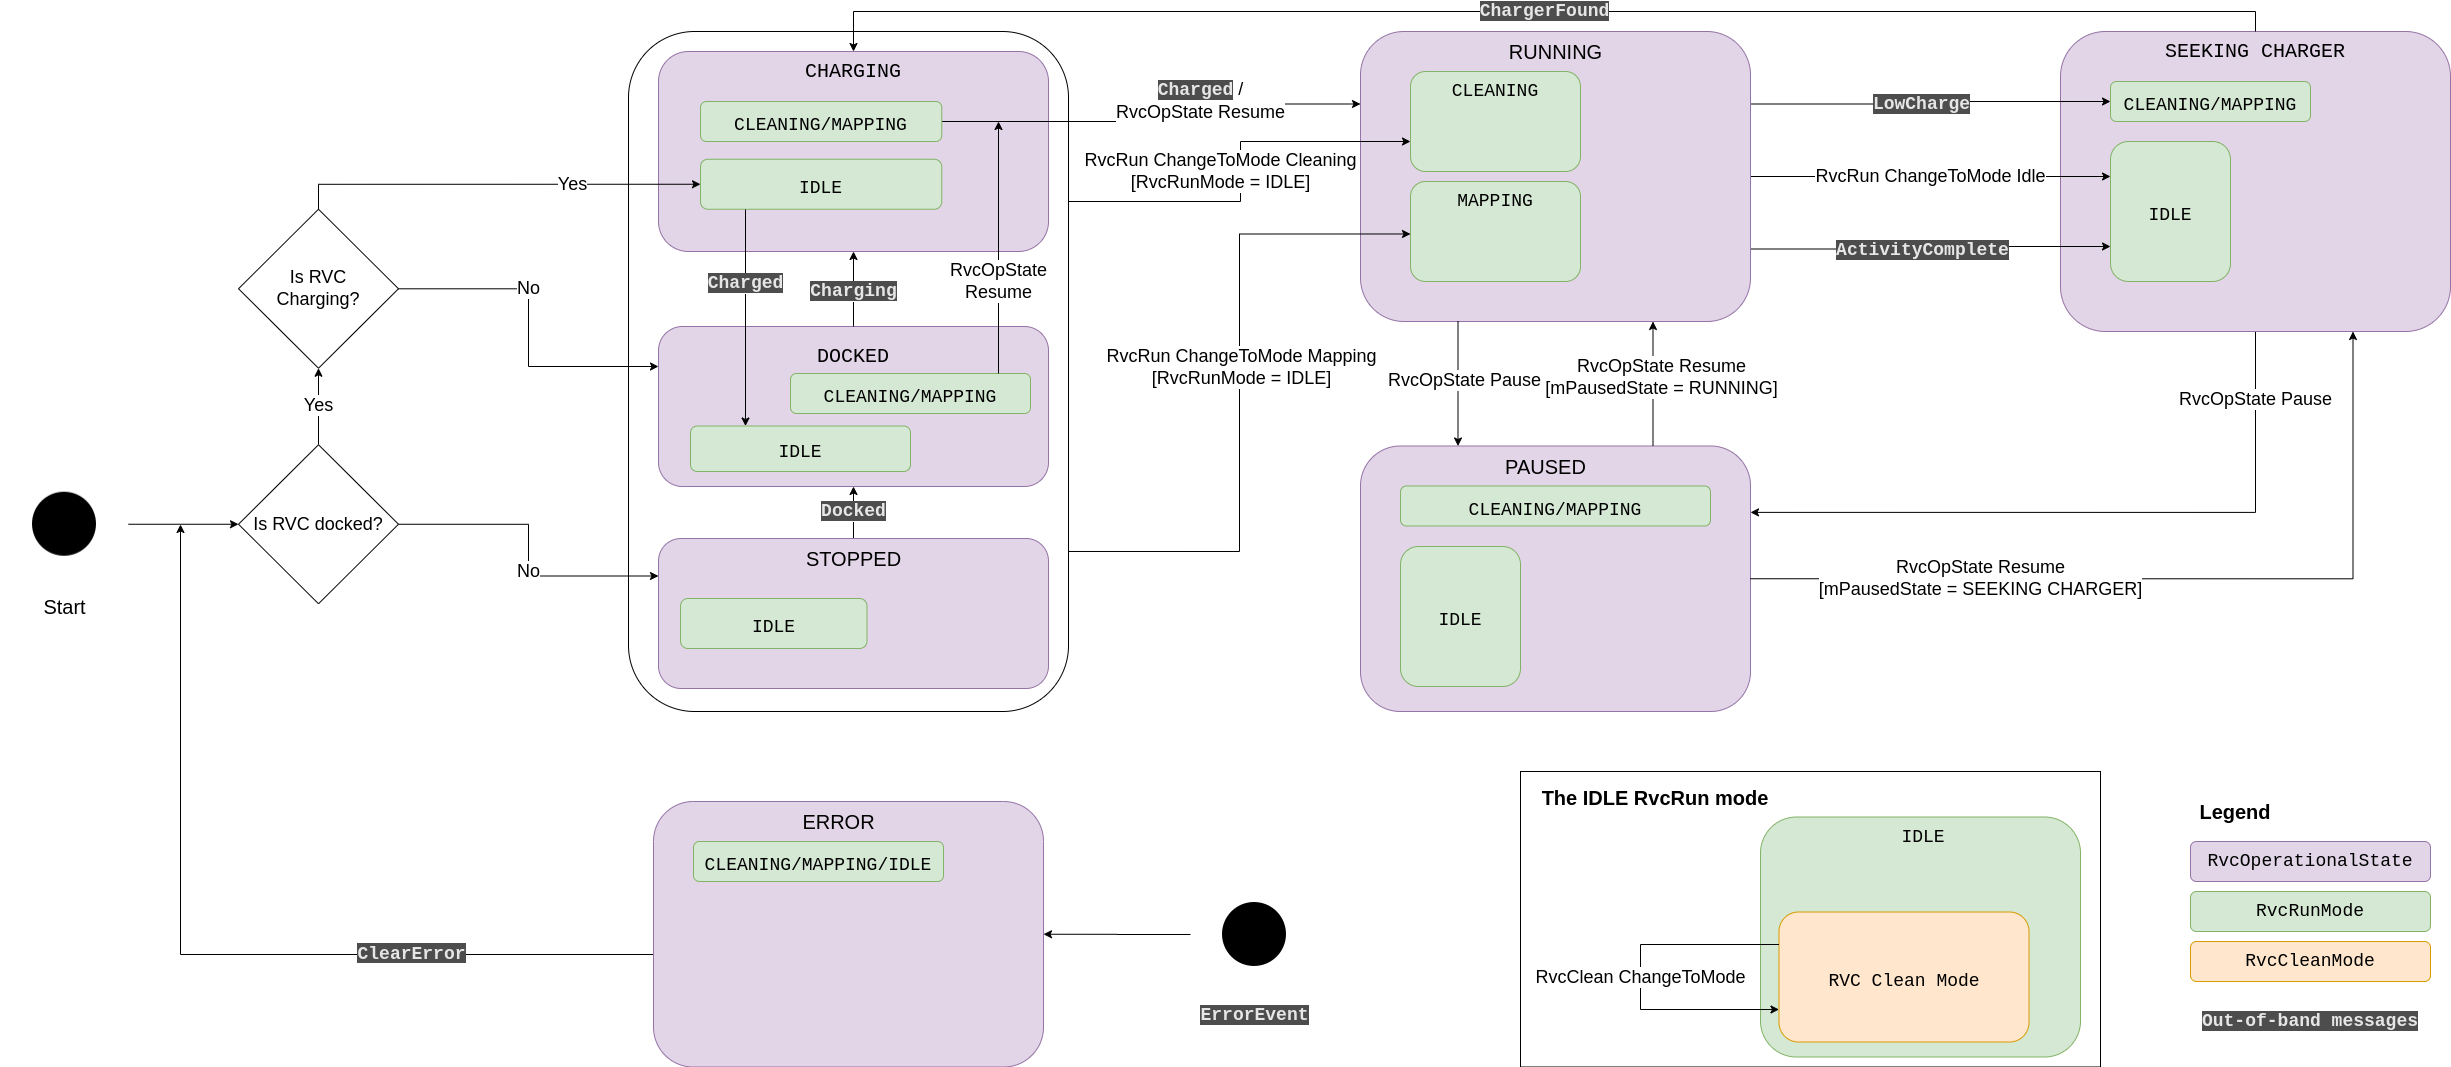
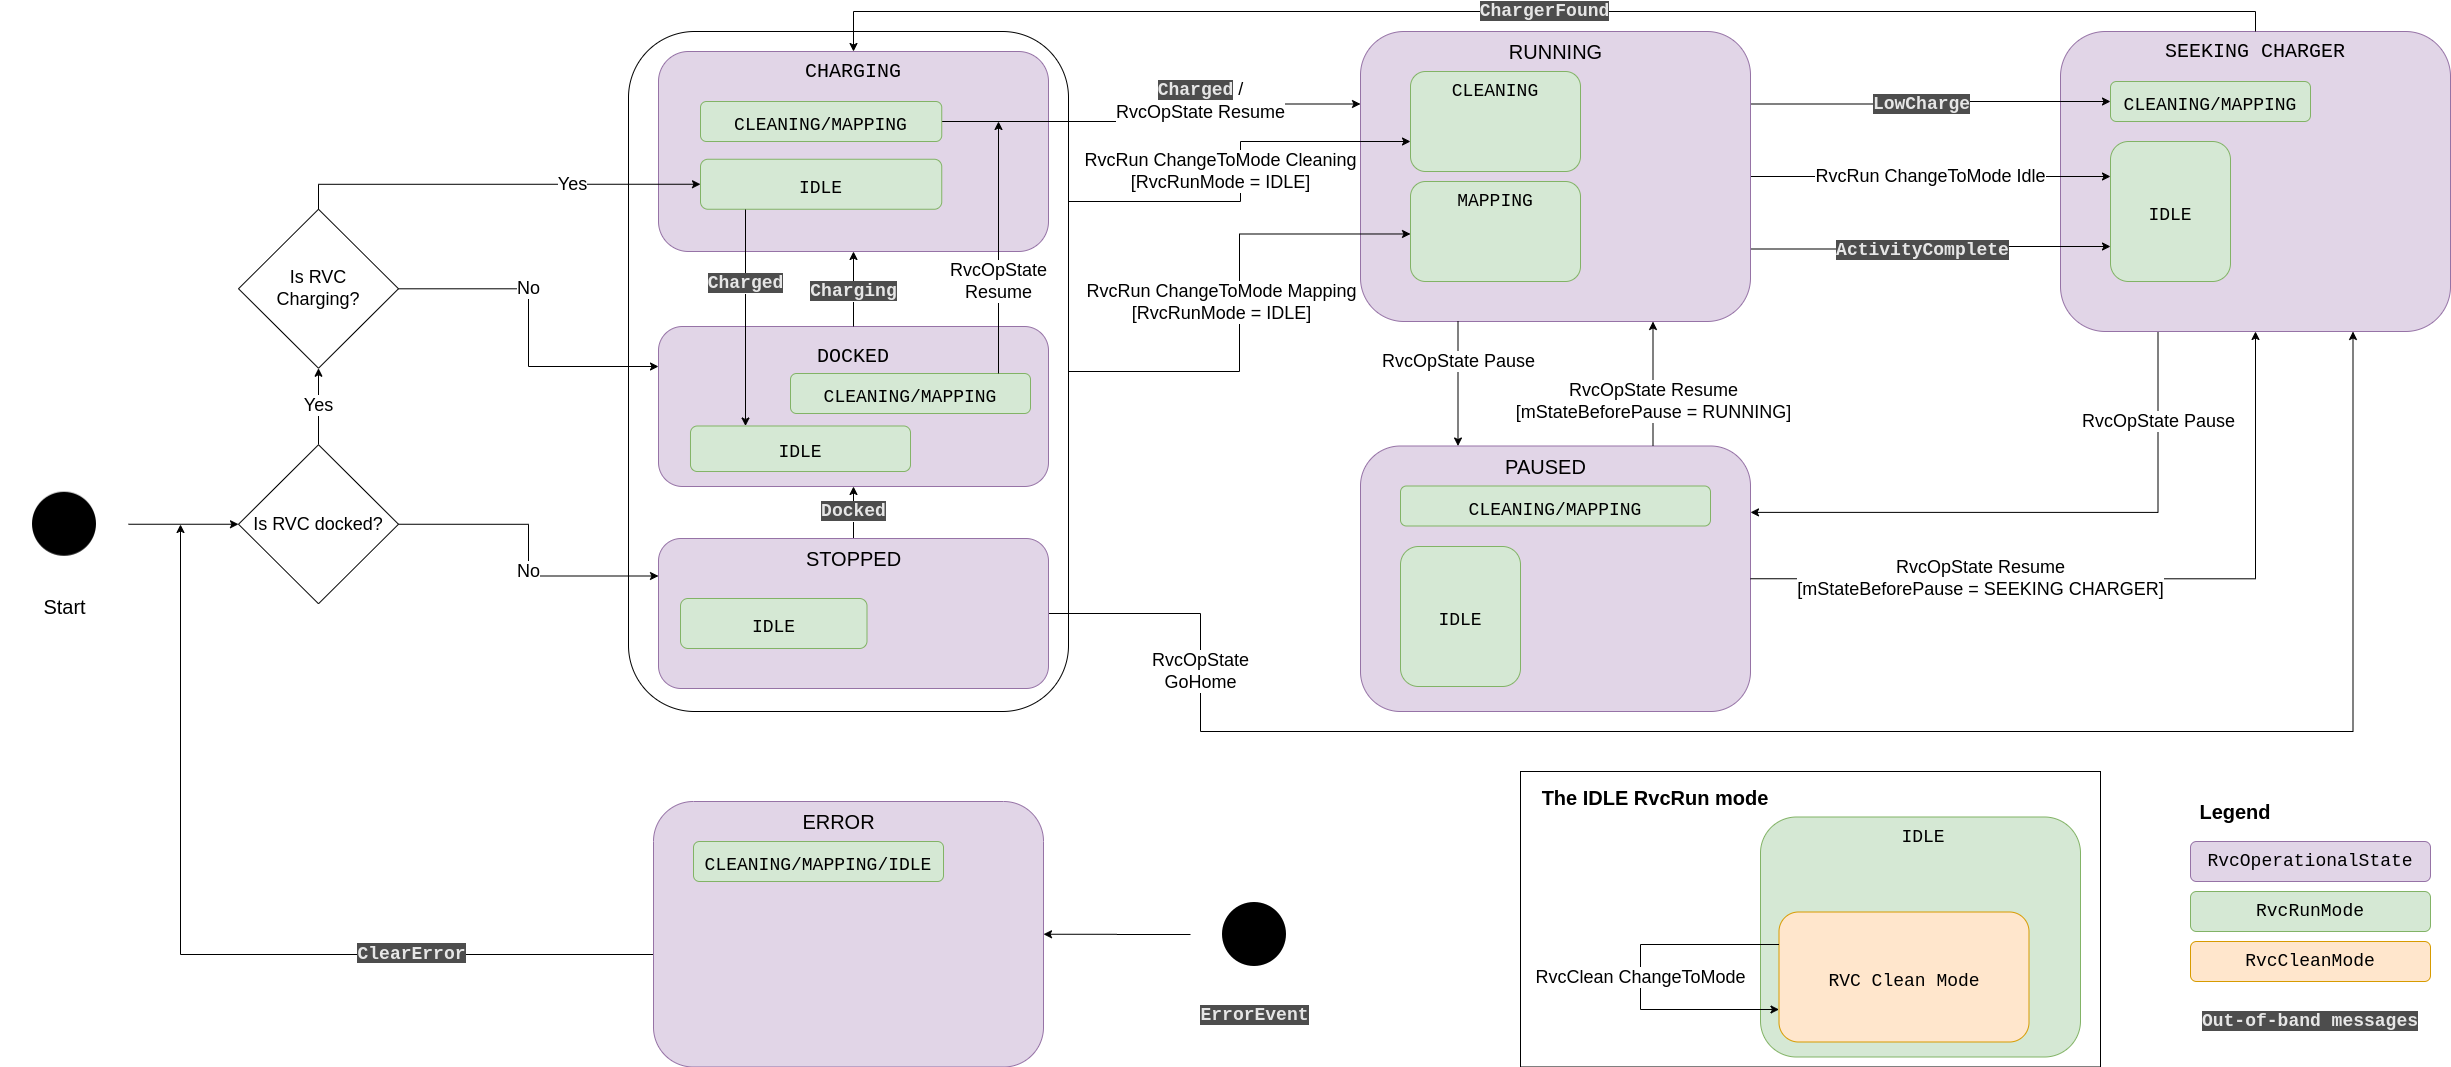
Update rvc app (#31827)
* Replaced the vendor specific mode tag for the mapping mode with the mapping mode tag.

* Updated the rvc-app's RvcOperationalStateDelegate to allow setting of a callback furtion for when the GoHome commond in received.

* Implemented the GoHome handler for rvc-app.

* Updated the PICS file for the rvc-app.

* Fixed the Admin commissioning cluter's zap config for the rvc-app

* Renamed the PICS values file to be similar to the ci file. Updated the script that runs all the RVC yaml tests.

* Updated the rvc-app state machine diagram.

* Updated theh rvc-app README.

* Restyled by clang-format

* Restyled by prettier-markdown

* Restyled by shfmt

* Updated the rvc-app .matter file.

* Reduced the text of some errors as it was longer that allowed.

* Added an out-of-band message to reset the rvc-app to its start-up state.

* Updated a returend error following the spec change.

* Excluded the RVC state diagram png from the lint check for %zu.

* Updated the rvc-app readme.

* Removed PIXIT settings from the rvc-app-pics values.

* Excluded all binary files from the lint check for %zu.

* Re-removed the OpenBasicCommissioningWindow command of the Administrator Commissioning cluster in the rvc-app due to security concerns.

* Updated the rvc-app .matter file.

---------

diff --git a/examples/rvc-app/rvc-common/src/rvc-device.cpp b/examples/rvc-app/rvc-common/src/rvc-device.cpp
@@ -41,7 +41,7 @@ void RvcDevice::HandleRvcRunChangeToMode(uint8_t newMode, ModeBase::Commands::Ch
         {
             response.status = to_underlying(ModeBase::StatusCode::kInvalidInMode);
             response.statusText.SetValue(
-                chip::CharSpan::fromCharString("Change to the mapping or cleaning mode is only allowed from idle."));
+                chip::CharSpan::fromCharString("Change to the mapping or cleaning mode is only allowed from idle"));
             return;
         }
 
@@ -58,7 +58,7 @@ void RvcDevice::HandleRvcRunChangeToMode(uint8_t newMode, ModeBase::Commands::Ch
         {
             response.status = to_underlying(ModeBase::StatusCode::kInvalidInMode);
             response.statusText.SetValue(
-                chip::CharSpan::fromCharString("Change to the mapping or cleaning mode is only allowed from idle."));
+                chip::CharSpan::fromCharString("Change to the mapping or cleaning mode is only allowed from idle"));
             return;
         }
 
@@ -72,7 +72,7 @@ void RvcDevice::HandleRvcRunChangeToMode(uint8_t newMode, ModeBase::Commands::Ch
 
     // If we fall through at any point, it's because the change is not supported in the current state.
     response.status = to_underlying(ModeBase::StatusCode::kInvalidInMode);
-    response.statusText.SetValue(chip::CharSpan::fromCharString("This change is not allowed at this time."));
+    response.statusText.SetValue(chip::CharSpan::fromCharString("This change is not allowed at this time"));
 }
 
 void RvcDevice::HandleRvcCleanChangeToMode(uint8_t newMode, ModeBase::Commands::ChangeToModeResponse::Type & response)
@@ -81,7 +81,7 @@ void RvcDevice::HandleRvcCleanChangeToMode(uint8_t newMode, ModeBase::Commands::
 
     if (rvcRunCurrentMode != RvcRunMode::ModeIdle)
     {
-        response.status = to_underlying(RvcCleanMode::StatusCode::kCleaningInProgress);
+        response.status = to_underlying(ModeBase::StatusCode::kInvalidInMode);
         response.statusText.SetValue(chip::CharSpan::fromCharString("Change of the cleaning mode is only allowed in Idle."));
         return;
     }
@@ -123,7 +123,7 @@ void RvcDevice::HandleOpStateResumeCallback(Clusters::OperationalState::GenericO
     break;
     default:
         // This method is only called if the device is in a resume-compatible state, i.e. `Charging`, `Docked` or
-        // `Paused`. Therefor, we do not expect to ever enter this branch.
+        // `Paused`. Therefore, we do not expect to ever enter this branch.
         err.Set(to_underlying(OperationalState::ErrorStateEnum::kCommandInvalidInState));
         return;
     }
@@ -132,6 +132,30 @@ void RvcDevice::HandleOpStateResumeCallback(Clusters::OperationalState::GenericO
 
     err.Set((error == CHIP_NO_ERROR) ? to_underlying(OperationalState::ErrorStateEnum::kNoError)
                                      : to_underlying(OperationalState::ErrorStateEnum::kUnableToCompleteOperation));
+}
+
+void RvcDevice::HandleOpStateGoHomeCallback(Clusters::OperationalState::GenericOperationalError & err)
+{
+    switch (mOperationalStateInstance.GetCurrentOperationalState())
+    {
+    case to_underlying(OperationalState::OperationalStateEnum::kStopped): {
+        if (mRunModeInstance.GetCurrentMode() != RvcRunMode::ModeIdle)
+        {
+            err.Set(to_underlying(OperationalState::ErrorStateEnum::kCommandInvalidInState));
+            return;
+        }
+
+        auto error = mOperationalStateInstance.SetOperationalState(
+            to_underlying(RvcOperationalState::OperationalStateEnum::kSeekingCharger));
+
+        err.Set((error == CHIP_NO_ERROR) ? to_underlying(OperationalState::ErrorStateEnum::kNoError)
+                                         : to_underlying(OperationalState::ErrorStateEnum::kUnableToCompleteOperation));
+    }
+    break;
+    default:
+        err.Set(to_underlying(OperationalState::ErrorStateEnum::kCommandInvalidInState));
+        return;
+    }
 }
 
 void RvcDevice::HandleChargedMessage()
@@ -300,4 +324,11 @@ void RvcDevice::HandleClearErrorMessage()
 
     mRunModeInstance.UpdateCurrentMode(RvcRunMode::ModeIdle);
     SetDeviceToIdleState();
+}
+
+void RvcDevice::HandleResetMessage()
+{
+    mRunModeInstance.UpdateCurrentMode(RvcRunMode::ModeIdle);
+    mOperationalStateInstance.SetOperationalState(to_underlying(OperationalState::OperationalStateEnum::kStopped));
+    mCleanModeInstance.UpdateCurrentMode(RvcCleanMode::ModeQuick);
 }

diff --git a/examples/rvc-app/rvc-common/include/rvc-operational-state-delegate.h b/examples/rvc-app/rvc-common/include/rvc-operational-state-delegate.h
@@ -53,6 +53,8 @@ private:
     HandleOpStateCommand mPauseCallback;
     RvcDevice * mResumeRvcDeviceInstance;
     HandleOpStateCommand mResumeCallback;
+    RvcDevice * mGoHomeRvcDeviceInstance;
+    HandleOpStateCommand mGoHomeCallback;
 
 public:
     /**
@@ -99,6 +101,12 @@ public:
      */
     void HandleResumeStateCallback(Clusters::OperationalState::GenericOperationalError & err) override;
 
+    /**
+     * Handle Command Callback in application: GoHome
+     * @param[out] get operational error after callback.
+     */
+    void HandleGoHomeCommandCallback(Clusters::OperationalState::GenericOperationalError & err) override;
+
     void SetPauseCallback(HandleOpStateCommand aCallback, RvcDevice * aInstance)
     {
         mPauseCallback          = aCallback;
@@ -109,6 +117,12 @@ public:
     {
         mResumeCallback          = aCallback;
         mResumeRvcDeviceInstance = aInstance;
+    };
+
+    void SetGoHomeCallback(HandleOpStateCommand aCallback, RvcDevice * aInstance)
+    {
+        mGoHomeCallback          = aCallback;
+        mGoHomeRvcDeviceInstance = aInstance;
     };
 };
 

diff --git a/examples/rvc-app/rvc-common/include/rvc-device.h b/examples/rvc-app/rvc-common/include/rvc-device.h
@@ -48,6 +48,7 @@ public:
         mCleanModeDelegate.SetHandleChangeToMode(&RvcDevice::HandleRvcCleanChangeToMode, this);
         mOperationalStateDelegate.SetPauseCallback(&RvcDevice::HandleOpStatePauseCallback, this);
         mOperationalStateDelegate.SetResumeCallback(&RvcDevice::HandleOpStateResumeCallback, this);
+        mOperationalStateDelegate.SetGoHomeCallback(&RvcDevice::HandleOpStateGoHomeCallback, this);
     }
 
     /**
@@ -82,6 +83,11 @@ public:
     void HandleOpStateResumeCallback(Clusters::OperationalState::GenericOperationalError & err);
 
     /**
+     * Handles the RvcOperationalState GoHome command.
+     */
+    void HandleOpStateGoHomeCallback(Clusters::OperationalState::GenericOperationalError & err);
+
+    /**
      * Updates the state machine when the device becomes fully-charged.
      */
     void HandleChargedMessage();
@@ -105,6 +111,8 @@ public:
     void HandleErrorEvent(const std::string & error);
 
     void HandleClearErrorMessage();
+
+    void HandleResetMessage();
 };
 
 } // namespace Clusters

diff --git a/examples/rvc-app/linux/RvcAppCommandDelegate.cpp b/examples/rvc-app/linux/RvcAppCommandDelegate.cpp
@@ -91,6 +91,10 @@ void RvcAppCommandHandler::HandleCommand(intptr_t context)
     {
         self->OnClearErrorHandler();
     }
+    else if (name == "Reset")
+    {
+        self->OnResetHandler();
+    }
     else
     {
         ChipLogError(NotSpecified, "Unhandled command: Should never happens");
@@ -143,6 +147,11 @@ void RvcAppCommandHandler::OnErrorEventHandler(const std::string & error)
 void RvcAppCommandHandler::OnClearErrorHandler()
 {
     mRvcDevice->HandleClearErrorMessage();
+}
+
+void RvcAppCommandHandler::OnResetHandler()
+{
+    mRvcDevice->HandleResetMessage();
 }
 
 void RvcAppCommandDelegate::SetRvcDevice(chip::app::Clusters::RvcDevice * aRvcDevice)

diff --git a/examples/rvc-app/rvc-common/include/rvc-mode-delegates.h b/examples/rvc-app/rvc-common/include/rvc-mode-delegates.h
@@ -45,7 +45,7 @@ private:
     using ModeTagStructType               = detail::Structs::ModeTagStruct::Type;
     ModeTagStructType ModeTagsIdle[1]     = { { .value = to_underlying(ModeTag::kIdle) } };
     ModeTagStructType ModeTagsCleaning[1] = { { .value = to_underlying(ModeTag::kCleaning) } };
-    ModeTagStructType ModeTagsMapping[1]  = { { .mfgCode = MakeOptional(TestVendor1), .value = 0x8001 } };
+    ModeTagStructType ModeTagsMapping[1]  = { { .value = to_underlying(ModeTag::kMapping) } };
 
     const detail::Structs::ModeOptionStruct::Type kModeOptions[3] = {
         detail::Structs::ModeOptionStruct::Type{ .label    = CharSpan::fromCharString("Idle"),

diff --git a/examples/rvc-app/rvc-common/src/rvc-operational-state-delegate.cpp b/examples/rvc-app/rvc-common/src/rvc-operational-state-delegate.cpp
@@ -51,3 +51,8 @@ void RvcOperationalStateDelegate::HandleResumeStateCallback(OperationalState::Ge
 {
     (mResumeRvcDeviceInstance->*mResumeCallback)(err);
 }
+
+void RvcOperationalStateDelegate::HandleGoHomeCommandCallback(OperationalState::GenericOperationalError & err)
+{
+    (mGoHomeRvcDeviceInstance->*mGoHomeCallback)(err);
+}

diff --git a/examples/rvc-app/linux/RvcAppCommandDelegate.h b/examples/rvc-app/linux/RvcAppCommandDelegate.h
@@ -56,6 +56,8 @@ private:
     void OnErrorEventHandler(const std::string & error);
 
     void OnClearErrorHandler();
+
+    void OnResetHandler();
 };
 
 class RvcAppCommandDelegate : public NamedPipeCommandDelegate

diff --git a/examples/rvc-app/README.md b/examples/rvc-app/README.md
@@ -48,16 +48,14 @@ Below are the PIXIT definitions required for the different python tests.
 
 #### TC 1.2
 
-PIXIT: `PIXIT_ENDPOINT:1`  
 Example command:
-`./scripts/tests/run_python_test.py --script src/python_testing/TC_RVCCLEANM_1_2.py --script-args "--storage-path admin_storage.json --PICS examples/rvc-app/rvc-common/pics/RVC_App_Test_Plan.txt --int-arg PIXIT_ENDPOINT:1"`
+`./scripts/tests/run_python_test.py --script src/python_testing/TC_RVCCLEANM_1_2.py --script-args "--storage-path admin_storage.json --PICS examples/rvc-app/rvc-common/pics/rvc-app-pics-values --endpoint=1"`
 
 #### TC 2.1
 
-PIXIT:
-`PIXIT_ENDPOINT:1 PIXIT.RVCCLEANM.MODE_CHANGE_FAIL:1 PIXIT.RVCCLEANM.MODE_CHANGE_OK:2`  
+PIXIT: `PIXIT.RVCCLEANM.MODE_CHANGE_FAIL:1 PIXIT.RVCCLEANM.MODE_CHANGE_OK:2`  
 Example command:
-`./scripts/tests/run_python_test.py --script src/python_testing/TC_RVCCLEANM_2_1.py --script-args "--storage-path admin_storage.json --PICS examples/rvc-app/rvc-common/pics/RVC_App_Test_Plan.txt --int-arg PIXIT_ENDPOINT:1 PIXIT.RVCCLEANM.MODE_CHANGE_FAIL:1 PIXIT.RVCCLEANM.MODE_CHANGE_OK:2"`
+`./scripts/tests/run_python_test.py --script src/python_testing/TC_RVCCLEANM_2_1.py --script-args "--storage-path admin_storage.json --PICS examples/rvc-app/rvc-common/pics/rvc-app-pics-values --endpoint 1 --int-arg PIXIT.RVCCLEANM.MODE_CHANGE_FAIL:1 PIXIT.RVCCLEANM.MODE_CHANGE_OK:2"`
 
 When asked "Manually put the device in a state from which it will FAIL to
 transition to mode 1", set the `RvcRunMode` to 1.
@@ -67,24 +65,23 @@ When asked "Manually put the device in a state from which it will SUCCESSFULLY
 transition to mode 2", set the `RvcRunMode` to 0.
 `chip-tool rvcrunmode change-to-mode 0`
 
-#### TC 3.2
+#### TC 2.2
 
-This is not applicable because this RVC device does not support the
-`StartUpMode` attribute.
+Example command:
+`./scripts/tests/run_python_test.py --script src/python_testing/TC_RVCCLEANM_2_2.py --script-args "--storage-path admin_storage.json --PICS examples/rvc-app/rvc-common/pics/rvc-app-pics-values --endpoint=1"`
 
 ### RVC Run Mode cluster
 
 #### TC 1.2
 
-PIXIT: `PIXIT_ENDPOINT:1` Example command:
-`./scripts/tests/run_python_test.py --script src/python_testing/TC_RVCRUNM_1_2.py --script-args "--storage-path admin_storage.json --PICS examples/rvc-app/rvc-common/pics/RVC_App_Test_Plan.txt --int-arg PIXIT_ENDPOINT:1"`
+Example command:
+`./scripts/tests/run_python_test.py --script src/python_testing/TC_RVCRUNM_1_2.py --script-args "--storage-path admin_storage.json --PICS examples/rvc-app/rvc-common/pics/rvc-app-pics-values --endpoint=1"`
 
 #### TC 2.1
 
-PIXIT:
-`PIXIT_ENDPOINT:1 PIXIT.RVCRUNM.MODE_CHANGE_FAIL:2 PIXIT.RVCRUNM.MODE_CHANGE_OK:0`  
+PIXIT: `PIXIT.RVCRUNM.MODE_CHANGE_FAIL:2 PIXIT.RVCRUNM.MODE_CHANGE_OK:0`  
 Example command:
-`./scripts/tests/run_python_test.py --script src/python_testing/TC_RVCRUNM_2_1.py --script-args "--storage-path admin_storage.json --PICS examples/rvc-app/rvc-common/pics/RVC_App_Test_Plan.txt --int-arg PIXIT_ENDPOINT:1 PIXIT.RVCRUNM.MODE_CHANGE_FAIL:2 PIXIT.RVCRUNM.MODE_CHANGE_OK:0"`
+`./scripts/tests/run_python_test.py --script src/python_testing/TC_RVCRUNM_2_1.py --script-args "--storage-path admin_storage.json --PICS examples/rvc-app/rvc-common/pics/rvc-app-pics-values --endpoint 1 --int-arg PIXIT.RVCRUNM.MODE_CHANGE_OK:0 PIXIT.RVCRUNM.MODE_CHANGE_FAIL:2"`
 
 When asked "Manually put the device in a state from which it will FAIL to
 transition to mode 2", set the `RvcRunMode` to 1.
@@ -93,27 +90,34 @@ transition to mode 2", set the `RvcRunMode` to 1.
 When asked "Manually put the device in a state from which it will SUCCESSFULLY
 transition to mode 0", do nothing.
 
-#### TC 3.2
+#### TC 2.2
 
-This is not applicable because this RVC device does not support the
-`StartUpMode` attribute.
+PIXIT: `PIXIT.RVCRUNM.MODE_A:1 PIXIT.RVCRUNM.MODE_B:2`  
+Example command:
+`./scripts/tests/run_python_test.py --script src/python_testing/TC_RVCRUNM_2_2.py --script-args "--storage-path admin_storage.json --PICS examples/rvc-app/rvc-common/pics/rvc-app-pics-values --endpoint 1 --int-arg PIXIT.RVCRUNM.MODE_A:1 PIXIT.RVCRUNM.MODE_B:2"`
 
 ### RVC Operational State cluster
 
 #### TC 2.1
 
-PIXIT: `PIXIT_ENDPOINT:1`  
 Example command:
-`./scripts/tests/run_python_test.py --script src/python_testing/TC_RVCOPSTATE_2_1.py --script-args "--storage-path admin_storage.json --PICS examples/rvc-app/rvc-common/pics/RVC_App_Test_Plan.txt --int-arg PIXIT_ENDPOINT:1"`
+`./scripts/tests/run_python_test.py --script src/python_testing/TC_RVCOPSTATE_2_1.py --script-args "--storage-path admin_storage.json --PICS examples/rvc-app/rvc-common/pics/rvc-app-pics-values --endpoint 1"`
 
 Use the out-of-band messages, chip-tool messages and the state machine diagram
 to navigate to the required states.
 
 #### TC 2.3
 
-PIXIT: `PIXIT_ENDPOINT:1`  
 Example command:
-`./scripts/tests/run_python_test.py --script src/python_testing/TC_RVCOPSTATE_2_3.py --script-args "--storage-path admin_storage.json --PICS examples/rvc-app/rvc-common/pics/RVC_App_Test_Plan.txt --int-arg PIXIT_ENDPOINT:1"`
+`./scripts/tests/run_python_test.py --script src/python_testing/TC_RVCOPSTATE_2_3.py --script-args "--storage-path admin_storage.json --PICS examples/rvc-app/rvc-common/pics/rvc-app-pics-values --endpoint 1"`
+
+Use the out-of-band messages, chip-tool messages and the state machine diagram
+to transition to the required states.
+
+#### TC 2.4
+
+Example command:
+`./scripts/tests/run_python_test.py --script src/python_testing/TC_RVCOPSTATE_2_4.py --script-args "--storage-path admin_storage.json --PICS examples/rvc-app/rvc-common/pics/rvc-app-pics-values --endpoint 1"`
 
 Use the out-of-band messages, chip-tool messages and the state machine diagram
 to transition to the required states.
